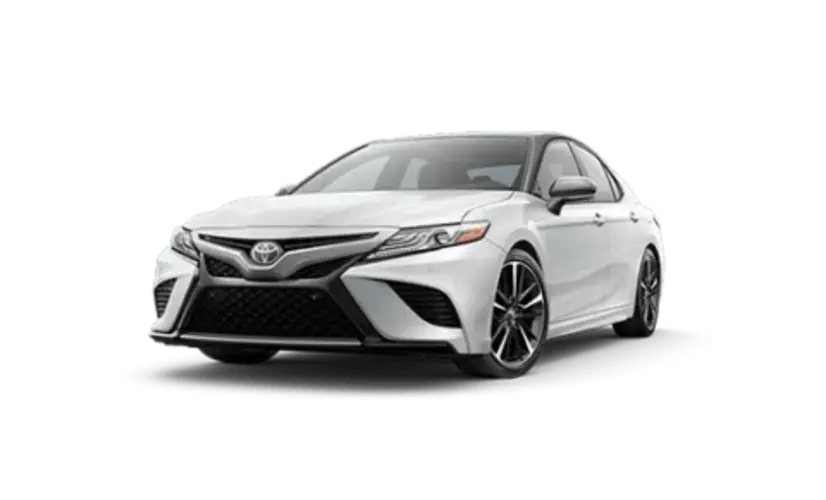
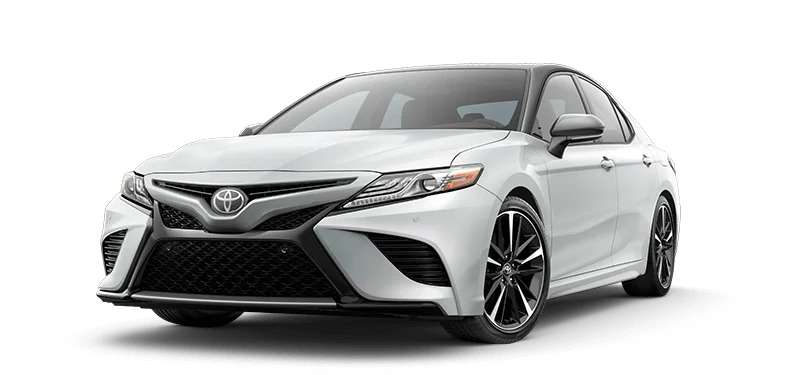
Update vehicle images in index.html by replacing Camry and GMC images with new versions to improve visual appeal.

diff --git a/index.html b/index.html
@@ -206,7 +206,7 @@
                                 </div><!-- /.main-slider-one__col-content -->
                                 <div class="main-slider-one__col-image">
                                     <div class="main-slider-one__image">
-                                        <img src="assets/images/products/camry-3.webp" alt="car" class="main-slider-one__image__car">
+                                        <img src="assets/images/products/camry-2.webp" alt="car" class="main-slider-one__image__car">
                                     </div><!-- /.main-slider-one__image -->
                                 </div><!-- /.main-slider-one__col-image -->
                             </div><!-- /.row gutter-y-50 -->
@@ -246,7 +246,7 @@
                                 </div><!-- /.main-slider-one__col-content -->
                                 <div class="main-slider-one__col-image">
                                     <div class="main-slider-one__image">
-                                        <img src="assets/images/products/gmc-2.webp" alt="car" class="main-slider-one__image__car">
+                                        <img src="assets/images/products/gmc-3.png" alt="car" class="main-slider-one__image__car">
                                     </div><!-- /.main-slider-one__image -->
                                 </div><!-- /.main-slider-one__col-image -->
                             </div><!-- /.row gutter-y-50 -->
